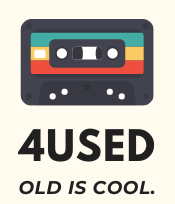
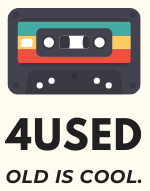
Subindo Home completada estático

diff --git a/projeto-4used/src/components/Home/index.js b/projeto-4used/src/components/Home/index.js
@@ -1,13 +1,11 @@
 import React, { Component } from 'react';
 import Brand from '../../imagens/FOTO.png'
-import Button from '@material-ui/core/Button'
 import styled from 'styled-components';
-import { createMuiTheme } from '@material-ui/core';
 
 const Background = styled.div`
    display: flex;
    flex-direction: column;
-   justify-content: space-evenly;
+   justify-content: center;
    align-items: center;
    background: #FFFCEF;
    height: 100vh;
@@ -15,20 +13,48 @@ const Background = styled.div`
 `
 
 const Logo = styled.img`
-   margin-top: 80px;
+   margin-top: 30px;
+   width: 250px;
+   height: auto;
 `
 
 const Slogan = styled.h3`
-   padding-bottom: 50px;
+   margin: 50px 0 50px 0;
+   font-style: italic;
 `
 
-const StyledButton = styled(Button)`
-   width: 200px;
+const StyledDiv = styled.div`
+   display: flex;
+   justify-content: space-between;
+   width: 300px;
 `
 
-const theme = createMuiTheme({
-   
-})
+const StyledButtonAnuncio = styled.button`
+   background: #43434F;
+   color: white;
+   border: 1px solid black;
+   border-radius: 10px;
+   padding: 0 25px;
+   font-weight: bold;
+   margin: 50px 0;
+`
+
+const StyledButtonOfertas = styled.button`
+   background: #43434F;
+   color: white;
+   border: 1px solid black;
+   border-radius: 10px;
+   padding: 20px;
+   font-weight: bold;
+   margin: 50px 0;
+`
+
+const StyledText = styled.p`
+   font-weight: bold;
+   position: fixed;
+   bottom: 0;
+`
+
 
 class Home extends Component {
    constructor(props) {
@@ -36,14 +62,15 @@ class Home extends Component {
    }
 
    render() {
-      return (         
+      return (
          <Background>
-            <Logo src={Brand}/>
+            <Logo src={Brand} />
             <Slogan>Seu site de compras e vendas preferido!</Slogan>
-            <div>
-               <StyledButton variant="contained" color="primary">Anunciar</StyledButton>               
-               <StyledButton variant="contained" color="primary">Ver Ofertas</StyledButton>
-            </div>            
+            <StyledDiv>
+               <StyledButtonAnuncio>Anunciar</StyledButtonAnuncio>
+               <StyledButtonOfertas>Ver Ofertas</StyledButtonOfertas>
+            </StyledDiv>
+            <StyledText>Direitos Autorais reservados</StyledText>
          </Background>
       )
    }
